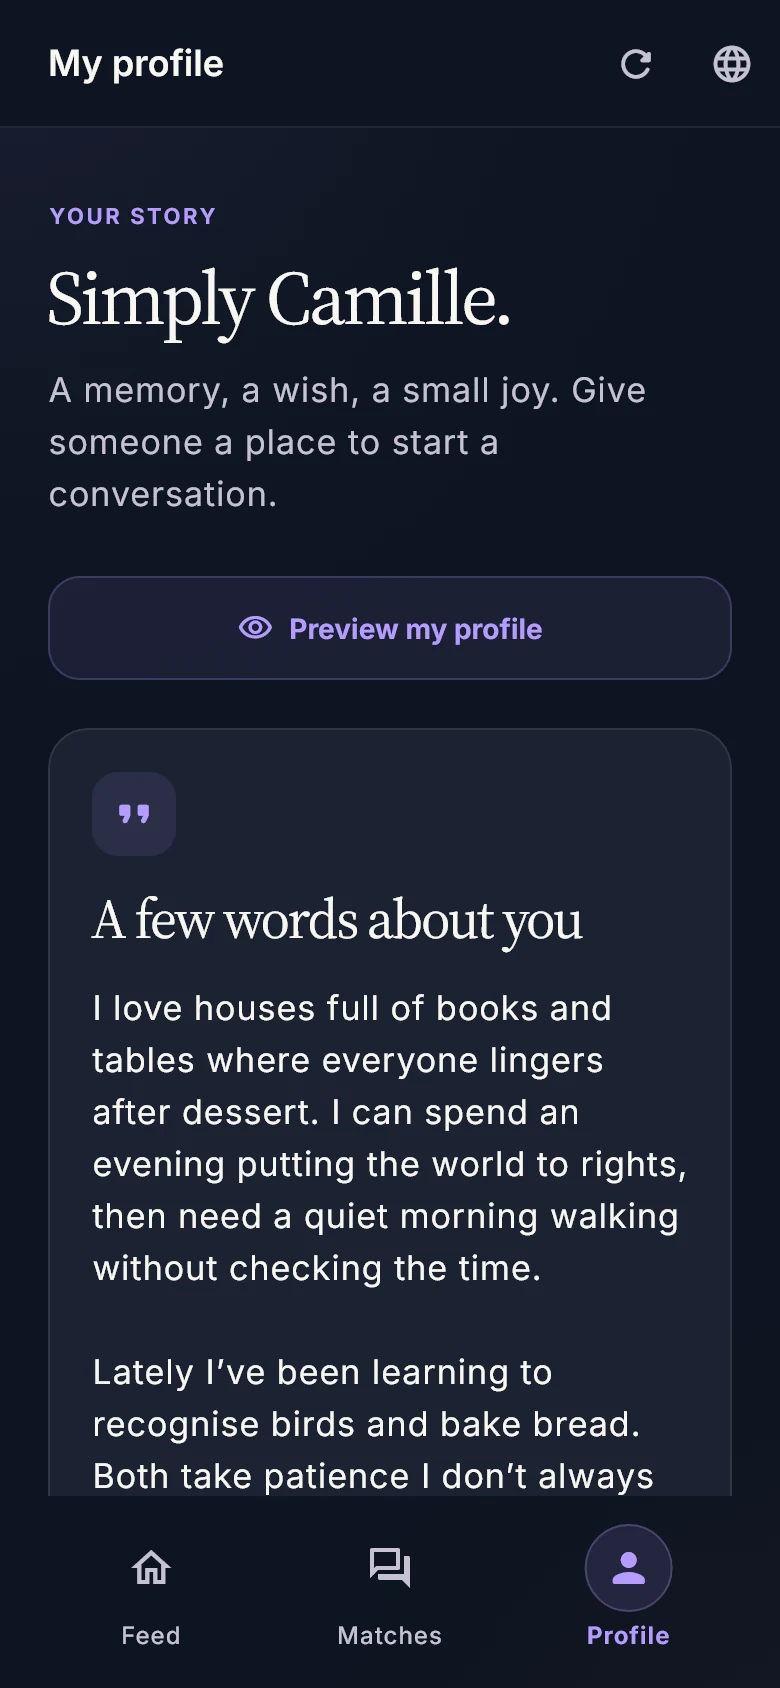
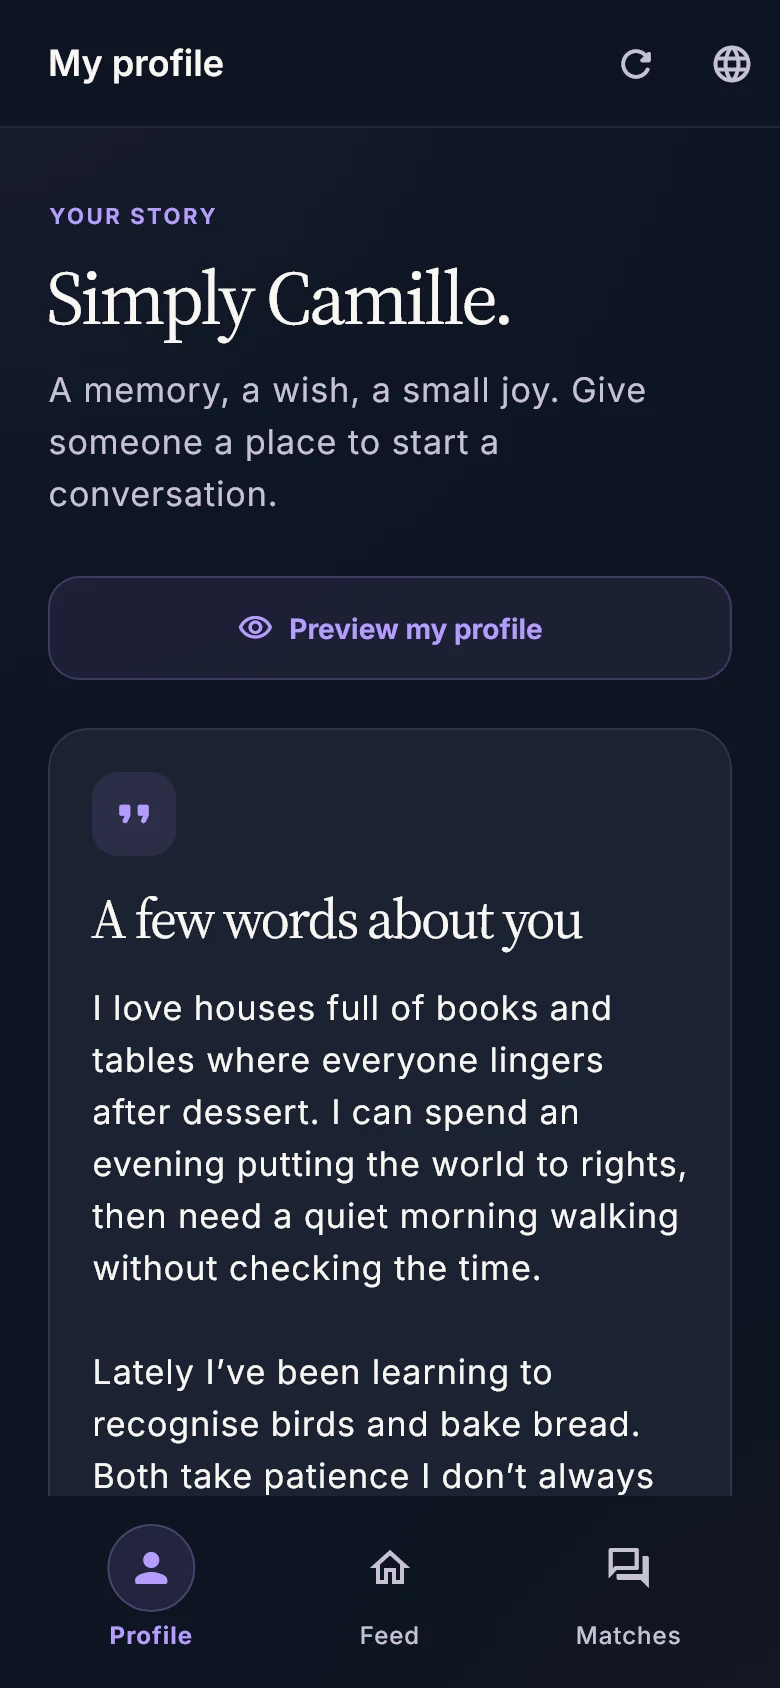
chore: refresh app screenshots for the new navigation

Changed region(s): [[0.7385, 0.8934, 0.8615, 0.9858], [0.1231, 0.8934, 0.2462, 0.9858], [0.4308, 0.8934, 0.5538, 0.9858]]

diff --git a/docs/development.md b/docs/development.md
@@ -134,7 +134,7 @@ violations or horizontal overflow were reported in those twenty views. The focus
 tests also exercise the keyboard skip link, language dialog focus/closing, reduced motion
 and loading of the three home screenshots. This does not establish full WCAG conformance.
 
-The twenty current WebP screenshots total 1,299,190 bytes; the largest is 86,682 bytes.
+The twenty current WebP screenshots total 1,291,250 bytes; the largest is 86,716 bytes.
 Lazy loading is retained except for the hero. Keep each capture below 100 KiB when refreshing
 them, and check the actual page request mix after layout or dependency changes. Local asset
 sizes do not establish hosted Core Web Vitals or performance on a slow mobile connection.
